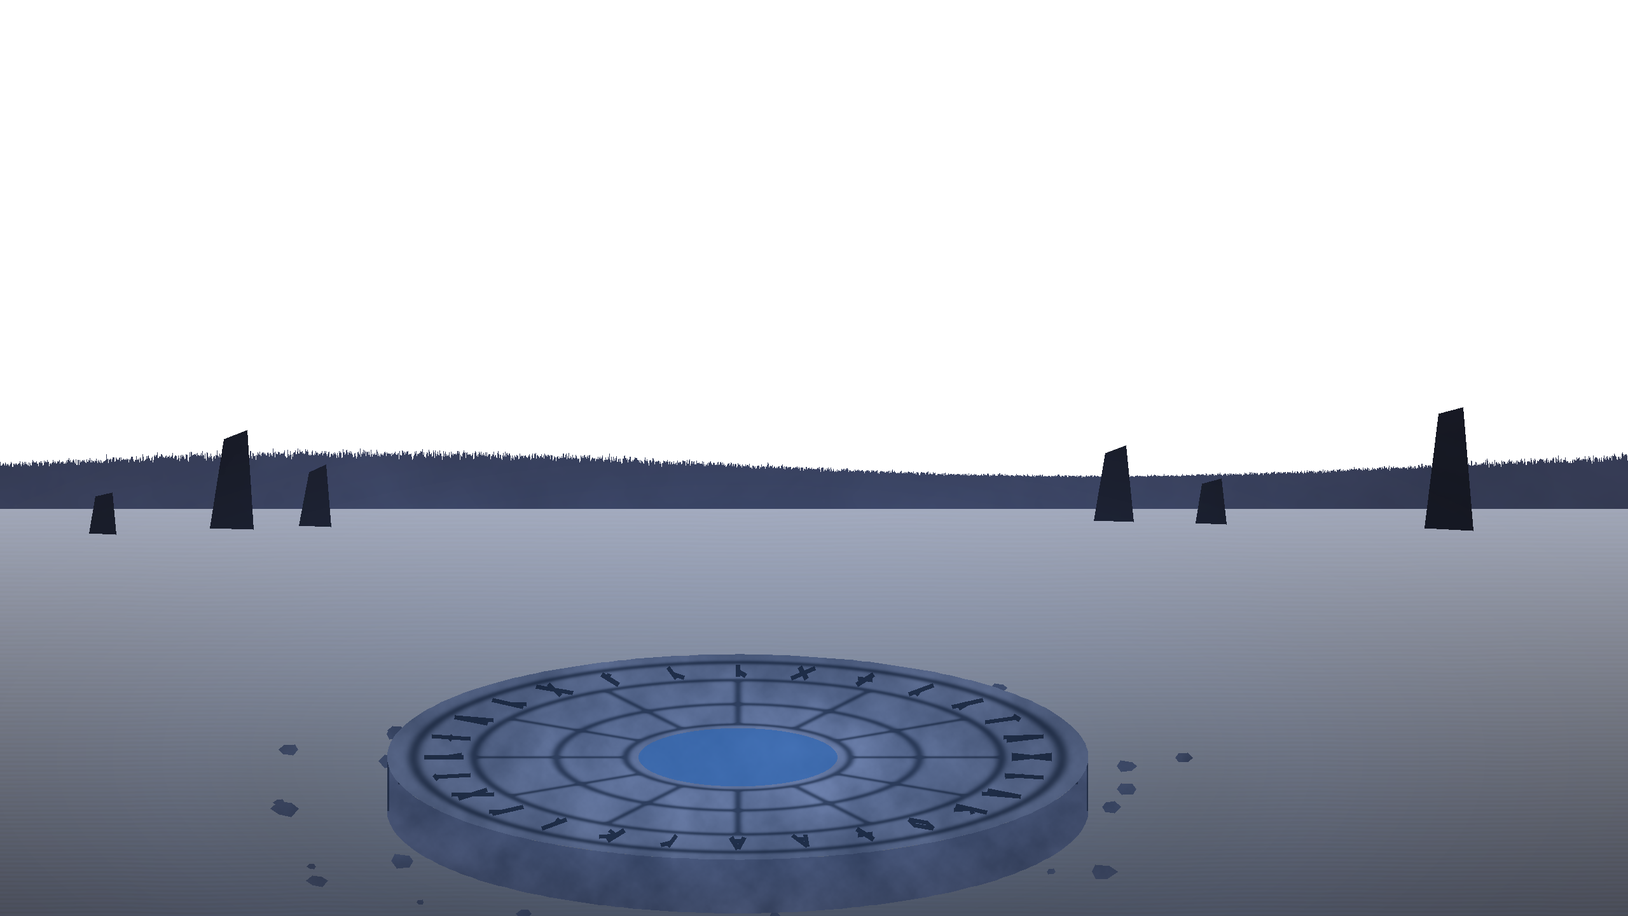
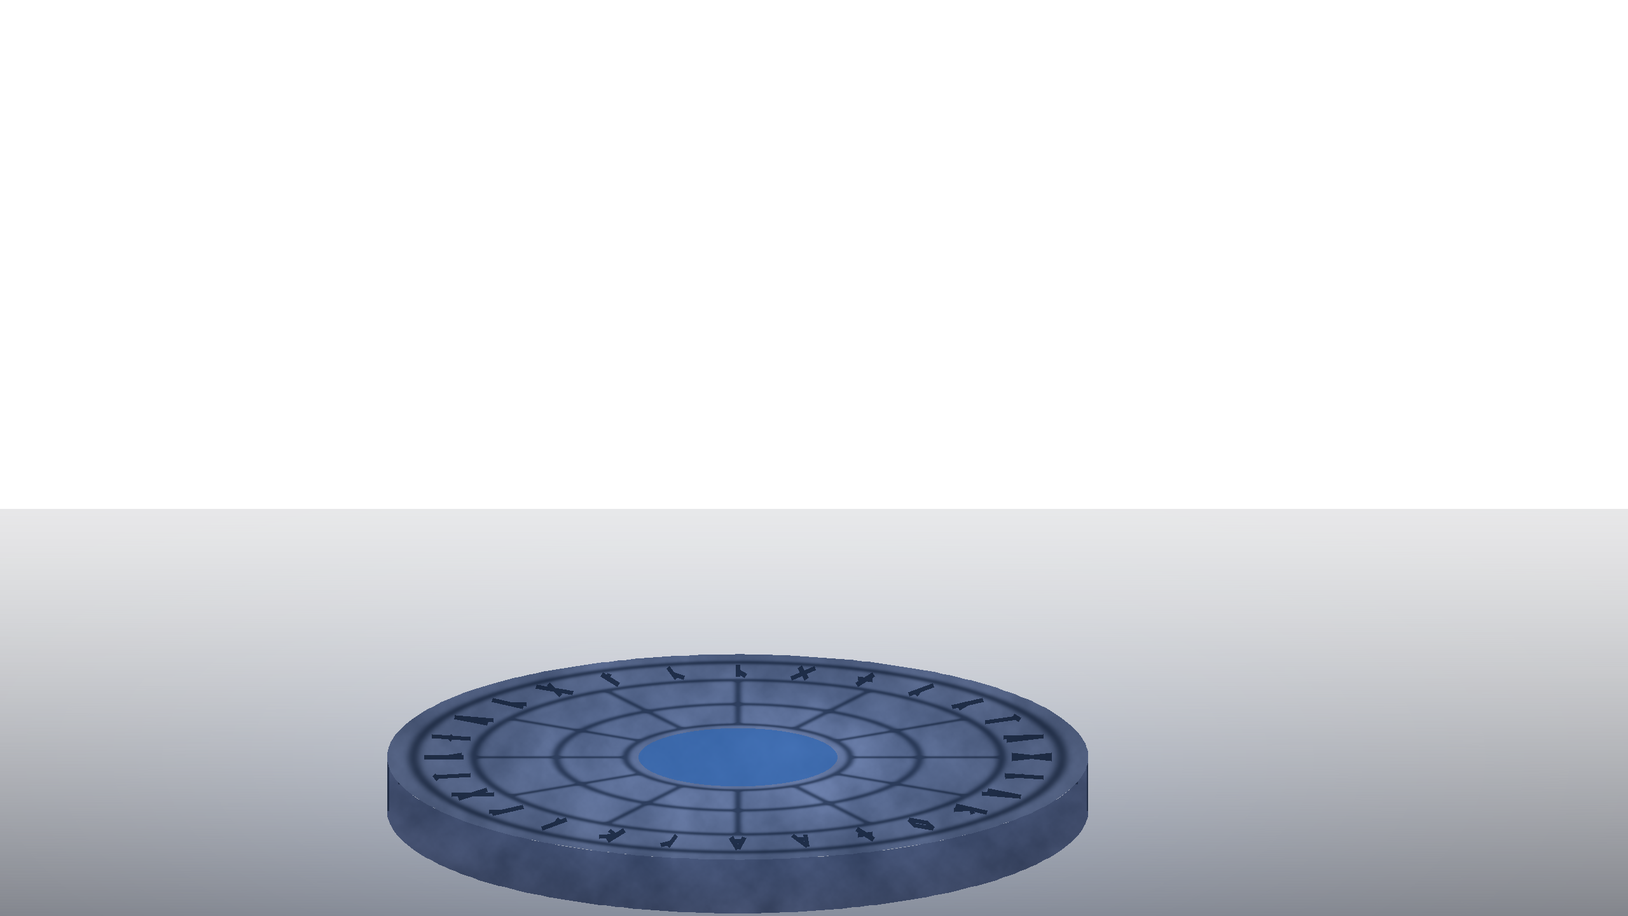
Main menu: mountains across a lake under northern lights; the lake mirrors them in wavering rows; no standing stones or moon glow on the water; the orb's aura rises and falls with it
Claude-Session: https://claude.ai/code/session_01XygewZTgx3ZFWTg4ffda8j

diff --git a/src/Hud.cpp b/src/Hud.cpp
@@ -1719,6 +1719,9 @@ float4 main(float4 pos : SV_POSITION, float4 col : COLOR0, float2 uv : TEXCOORD0
 		ID3D11ShaderResourceView* g_sGlow = nullptr;
 		ID3D11ShaderResourceView* g_sCrystal = nullptr;
 		ID3D11ShaderResourceView* g_sSoft = nullptr;
+		ID3D11ShaderResourceView* g_sMtn = nullptr;      // the shrine scene's mountains across the lake (tools/menulake.py)
+		ID3D11ShaderResourceView* g_sRefl = nullptr;     // the mountains upside down in the lake
+		ID3D11ShaderResourceView* g_sAurora = nullptr;   // the northern lights
 		std::array<ID3D11ShaderResourceView*, 9> g_sShard{};
 		ID3D11ShaderResourceView* g_mGroundFog = nullptr;
 		ID3D11ShaderResourceView* g_mClouds2 = nullptr;    // drifting night clouds that tile left-right (tools/menuscene.py drift_clouds)  // fog wisps that tile left-right (tools/menuscene.py ground_fog)
@@ -1902,19 +1905,46 @@ float4 main(float4 pos : SV_POSITION, float4 col : COLOR0, float2 uv : TEXCOORD0
 					}
 				}
 			}
-			if (g_mAurora) {
+			const bool lakeScene = g_sGround && g_sMtn && g_sRefl;
+			// the northern lights over the lake: the curtains drawn in narrow columns, each lifted and brightened on its
+			// own slow wave, so the folds ripple along them and the light breathes
+			auto auroraStrips = [&](bool mirrored, float alpha) {
+				if (!g_sAurora) {
+					return;
+				}
+				const auto  tx = ImTextureID(reinterpret_cast<std::uintptr_t>(g_sAurora));
+				constexpr int kN = 96;
+				for (int i = 0; i < kN; ++i) {
+					const float x0 = 2560.0f * i / kN, x1 = 2560.0f * (i + 1) / kN, xm = (x0 + x1) * 0.5f;
+					const float lift = 26.0f * std::sin(now * 0.31f + xm * 0.0042f) + 12.0f * std::sin(now * 0.73f - xm * 0.011f);
+					const float glow = 0.62f + 0.38f * std::sin(now * 0.45f + xm * 0.0027f) * std::sin(now * 0.19f - xm * 0.0013f + 1.0f);
+					const int   al = static_cast<int>(std::clamp(alpha * glow, 0.0f, 1.0f) * 255 * fade);
+					const float sway = std::sin(now * 0.12f) * 0.004f;
+					if (!mirrored) {
+						const ImVec2 a = toScreen(0.2f, x0, 0 - lift), b = toScreen(0.2f, x1, 1440 - lift);
+						fg->AddImage(tx, a, b, { x0 / 2560 + sway, 0 }, { x1 / 2560 + sway, 1 }, IM_COL32(255, 255, 255, al));
+					} else {  // the lake's copy: sky rows 160..800 mirrored into 800..1440
+						const ImVec2 a = toScreen(0.4f, x0, 800 + lift * 0.6f), b = toScreen(0.4f, x1, 1440 + lift * 0.6f);
+						fg->AddImage(tx, a, b, { x0 / 2560 + sway, 800.0f / 1440 }, { x1 / 2560 + sway, 160.0f / 1440 }, IM_COL32(200, 225, 255, al));
+					}
+				}
+			};
+			if (lakeScene) {
+				auroraStrips(false, 0.95f);
+			} else if (g_mAurora) {
 				for (int band = 0; band < 2; ++band) {
 					const float w8 = 0.5f + 0.5f * std::sin(now * (0.21f + 0.07f * band) + band * 2.1f);
 					layer(g_mAurora, 0.2f, IM_COL32(150, 255, 210, static_cast<int>((14 + 30 * w8) * fade)), { std::sin(now * (0.05f + 0.02f * band) + band) * 0.006f, 0 });
 				}
 			}
-			layer(g_mClouds, 0.25f, IM_COL32(255, 255, 255, static_cast<int>(200 * fade)), { std::fmod(now * 0.0035f, 1.0f), 0 });
+			const float cloudK = lakeScene ? 0.45f : 1.0f;  // (thin over the lake: the aurora shows through)
+			layer(g_mClouds, 0.25f, IM_COL32(255, 255, 255, static_cast<int>(200 * fade * cloudK)), { std::fmod(now * 0.0035f, 1.0f), 0 });
 			// clouds drifting across the night: two banks at their own speeds (the near one faster), passing over the moon
 			if (g_mClouds2) {
 				const auto tex = ImTextureID(reinterpret_cast<std::uintptr_t>(g_mClouds2));
 				const float u0 = std::fmod(now * 0.0045f, 1.0f), u1 = std::fmod(now * 0.0075f + 0.4f, 1.0f);
-				fg->AddImage(tex, { 0, 0 }, { size.x, size.y * 0.40f }, { u0, 0 }, { u0 + 1.0f, 1 }, IM_COL32(255, 255, 255, static_cast<int>(150 * fade)));
-				fg->AddImage(tex, { 0, size.y * 0.06f }, { size.x, size.y * 0.46f }, { u1, 0.15f }, { u1 + 0.7f, 1 }, IM_COL32(220, 220, 235, static_cast<int>(120 * fade)));
+				fg->AddImage(tex, { 0, 0 }, { size.x, size.y * 0.40f }, { u0, 0 }, { u0 + 1.0f, 1 }, IM_COL32(255, 255, 255, static_cast<int>(150 * fade * cloudK)));
+				fg->AddImage(tex, { 0, size.y * 0.06f }, { size.x, size.y * 0.46f }, { u1, 0.15f }, { u1 + 0.7f, 1 }, IM_COL32(220, 220, 235, static_cast<int>(120 * fade * cloudK)));
 			}
 			// lightning: now and then a forked bolt strikes the far range (drawn behind it, so the peaks cut it off), the
 			// clouds flaring with it; it flickers a few times and is gone
@@ -1989,36 +2019,64 @@ float4 main(float4 pos : SV_POSITION, float4 col : COLOR0, float2 uv : TEXCOORD0
 				};
 				const float pulse = 0.5f + 0.5f * std::sin(now * 1.6f);            // the core's heartbeat
 				const float slow = 0.5f + 0.5f * std::sin(now * 0.55f + 1.0f);
-				// the lake: the night sky upside down in still water (under the painting's see-through water), its stars
-				// trembling as faint ripples roll toward us
+				// the far range across the lake, then the lake: deep water darkening toward us; the stars and the aurora
+				// upside down in it, the mountains' reflection over them - all of it in thin rows, each row nudged
+				// sideways on its own wave (bigger and slower toward us), so the reflection wavers like real water; bright
+				// ripple lines run out toward the far shore
 				{
-					const ImVec2 h0 = toScreen(kD, 0, 800), h1 = toScreen(kD, 2560, 1440);
-					if (g_mSky) {
-						fg->AddImage(ImTextureID(reinterpret_cast<std::uintptr_t>(g_mSky)), h0, h1, { 0, 800.0f / 1440 }, { 1, 160.0f / 1440 }, IM_COL32(150, 170, 220, static_cast<int>(150 * fade)));
+					constexpr float kL = 0.4f;  // (the mountains and their reflection share one depth, so they meet at the shore)
+					if (g_sMtn) {
+						layer(g_sMtn, kL, white);
 					}
-					const ImVec2 m = toScreen(kD, 0.255f * 2560, 1600 - 0.315f * 1440);  // the Blood Moon's light on the water
-					fg->AddCircleFilled(m, 46 * k, IM_COL32(255, 120, 90, static_cast<int>(18 * fade)), 40);
+					const ImVec2 h0 = toScreen(kL, -60, 800), h1 = toScreen(kL, 2620, 1460);
+					fg->AddRectFilledMultiColor(h0, h1, IM_COL32(20, 27, 52, static_cast<int>(255 * fade)), IM_COL32(20, 27, 52, static_cast<int>(255 * fade)),
+						IM_COL32(6, 9, 20, static_cast<int>(255 * fade)), IM_COL32(6, 9, 20, static_cast<int>(255 * fade)));
 					for (const auto& st : stars) {
 						const float py = 1600 - st.y * 1440;
-						if (py < 810 || py > 1430) {
+						if (py < 806 || py > 1430) {
 							continue;
 						}
-						const float wob = std::sin(now * 1.7f + py * 0.06f) * 3.0f + std::sin(now * 0.9f + st.ph) * 1.5f;
-						const ImVec2 p = toScreen(kD, st.x * 2560 + wob, py);
+						const float tt = (py - 800) / 640;
+						const float wob = std::sin(now * 1.3f + py * 0.08f) * (2 + 10 * tt);
+						const ImVec2 p = toScreen(kL, st.x * 2560 + wob, py);
 						const float  tw = std::pow(0.5f + 0.5f * std::sin(now * st.sp + st.ph), 3.0f);
-						const int    al = static_cast<int>((40 + 110 * tw) * fade);
-						fg->AddLine({ p.x, p.y - 4 * k }, { p.x, p.y + (5 + 6 * st.sz) * k }, IM_COL32(200, 215, 255, al / 2), (1.0f + st.sz) * k);
-						fg->AddCircleFilled(p, (0.8f + 0.9f * st.sz * tw) * k, IM_COL32(225, 235, 255, al), 8);
+						const int    al = static_cast<int>((30 + 90 * tw) * (1 - 0.6f * tt) * fade);
+						fg->AddLine({ p.x, p.y - 2 * k }, { p.x, p.y + (3 + 5 * st.sz) * k }, IM_COL32(200, 215, 255, al / 2), (1.0f + st.sz) * k);
+						fg->AddCircleFilled(p, (0.7f + 0.8f * st.sz * tw) * k, IM_COL32(225, 235, 255, al), 8);
 					}
-					for (int i = 0; i < 14; ++i) {  // ripples: thin bright lines drifting down the water
-						const float ph = std::fmod(now * 0.045f + i / 14.0f, 1.0f);
-						const float py = 815 + ph * ph * 620;
-						const ImVec2 a = toScreen(kD, 0, py), b = toScreen(kD, 2560, py);
-						const int al = static_cast<int>(22 * std::sin(ph * 3.1416f) * fade);
-						fg->AddLine(a, b, IM_COL32(170, 190, 240, al), (1.0f + ph * 1.5f) * k);
+					auroraStrips(true, 0.42f);
+					if (g_sRefl) {
+						const auto rt = ImTextureID(reinterpret_cast<std::uintptr_t>(g_sRefl));
+						constexpr int kRows = 128;
+						for (int r = 0; r < kRows; ++r) {
+							const float y0 = 800 + 640.0f * r / kRows, y1 = 800 + 640.0f * (r + 1) / kRows;
+							const float tt = (r + 0.5f) / kRows;
+							const float off = std::sin(now * (1.6f - 0.8f * tt) + y0 * (0.19f - 0.12f * tt)) * (1.5f + 16.0f * tt * tt) + std::sin(now * 0.7f + y0 * 0.031f) * 3.0f * tt;
+							const float du = off / 2560.0f;
+							fg->AddImage(rt, toScreen(kL, 0, y0), toScreen(kL, 2560, y1 + 0.6f), { du, r / static_cast<float>(kRows) }, { 1 + du, (r + 1) / static_cast<float>(kRows) },
+								IM_COL32(255, 255, 255, static_cast<int>(255 * fade)));
+						}
+					}
+					for (int i = 0; i < 22; ++i) {  // ripples running out toward the far shore, finer as they go
+						const float ph = std::fmod(now * 0.03f + i / 22.0f, 1.0f);
+						const float d = 1.0f - ph;  // 1 near us, 0 at the shore
+						const float py = 803 + d * d * 630;
+						const float x0 = 2560 * std::fmod(i * 0.618f, 1.0f) - 900, len = 600 + 1400 * d;
+						const ImVec2 a = toScreen(kL, x0, py), b = toScreen(kL, x0 + len, py);
+						const int al = static_cast<int>(26 * std::sin(ph * 3.1416f) * fade);
+						fg->AddLine(a, b, IM_COL32(150, 180, 235, al), (0.7f + d * 1.6f) * k);
+					}
+					// the shrine's own light on the water under it: a wavering column of blue
+					if (g_sSoft) {
+						const ImVec2 q = at(0, 0, -60.0f);
+						for (int j = 0; j < 10; ++j) {
+							const float yy = q.y + j * 22.0f * u * kS * 0.35f;
+							const float wv = std::sin(now * 2.1f + j * 0.9f) * 10.0f * u;
+							sprite(g_sSoft, { q.x + wv, yy }, (260 - 14 * j) * u, 26 * u, 0, IM_COL32(90, 170, 255, static_cast<int>((34 - 3 * j + 10 * pulse) * fade)));
+						}
 					}
 				}
-				groundFog(size.y * 0.30f, size.y * 0.56f, 0.006f, 1.6f, 120, IM_COL32(120, 135, 180, 0));  // mist on the far water
+				groundFog(size.y * 0.47f, size.y * 0.62f, 0.006f, 1.6f, 70, IM_COL32(120, 135, 180, 0));  // mist on the far water, at the mountains' feet
 				layer(g_sGround, kD, white);
 				if (g_sGlow) {  // the runes and the pool breathe with the core
 					layer(g_sGlow, kD, IM_COL32(255, 255, 255, static_cast<int>((150 + 105 * pulse) * fade)));
@@ -2071,7 +2129,8 @@ float4 main(float4 pos : SV_POSITION, float4 col : COLOR0, float2 uv : TEXCOORD0
 				}
 				// the crystal: turning (its frames), swelling with the heartbeat, its light round it
 				{
-					const ImVec2 c = at(0, 0, kCrystalZ);
+					const float  bob = std::sin(now * 0.9f) * 6 * u;  // the orb rises and falls; its light and aura go with it
+					const ImVec2 c = [&] { auto p = at(0, 0, kCrystalZ); p.y += bob; return p; }();
 					if (g_sSoft) {
 						const float g1 = (420 + 90 * pulse) * u, g2 = (200 + 50 * pulse) * u;
 						sprite(g_sSoft, c, g1 * 2, g1 * 2, 0, IM_COL32(80, 150, 255, static_cast<int>((70 + 50 * pulse) * fade)));
@@ -2094,7 +2153,7 @@ float4 main(float4 pos : SV_POSITION, float4 col : COLOR0, float2 uv : TEXCOORD0
 						const ImVec2 uv0{ (f % 6) / 6.0f, (f / 6) / 4.0f }, uv1{ uv0.x + 1.0f / 6.0f, uv0.y + 0.25f };
 						const float sc = 1.0f + 0.035f * pulse;
 						const float w = 448 * u * sc, h = 640 * u * sc;
-						const ImVec2 mid{ c.x, c.y + (0.5f - 0.56f) * h + std::sin(now * 0.9f) * 6 * u };  // (the frame's origin sits at 56% of its height)
+						const ImVec2 mid{ c.x, c.y + (0.5f - 0.56f) * h };  // (the frame's origin sits at 56% of its height)
 						sprite(g_sCrystal, mid, w, h, 0, IM_COL32(255, 255, 255, static_cast<int>(255 * fade)), uv0, uv1);
 					}
 					aura(1.1f, 0.8f, IM_COL32(200, 235, 255, static_cast<int>((60 + 40 * pulse) * fade)));  // (a thin tongue over its face)
@@ -2876,7 +2935,7 @@ float4 main(float4 pos : SV_POSITION, float4 col : COLOR0, float2 uv : TEXCOORD0
 				DirectX::CreateWICTextureFromFile(g_device, (std::wstring(L"Data\\Interface\\UndyingNights\\") + file).c_str(), nullptr, tex);
 			}
 			DirectX::CreateWICTextureFromFile(g_device, L"Data\\Interface\\UndyingNights\\menu_title.png", nullptr, &g_mTitle);
-			for (auto [file, tex] : { std::pair{ L"menu_shrine_ground.png", &g_sGround }, { L"menu_shrine_glow.png", &g_sGlow }, { L"menu_crystal.png", &g_sCrystal }, { L"menu_softglow.png", &g_sSoft } }) {
+			for (auto [file, tex] : { std::pair{ L"menu_shrine_ground.png", &g_sGround }, { L"menu_shrine_glow.png", &g_sGlow }, { L"menu_crystal.png", &g_sCrystal }, { L"menu_softglow.png", &g_sSoft }, { L"menu_mountains.png", &g_sMtn }, { L"menu_lake_refl.png", &g_sRefl }, { L"menu_aurora2.png", &g_sAurora } }) {
 				DirectX::CreateWICTextureFromFile(g_device, (std::wstring(L"Data\\Interface\\UndyingNights\\") + file).c_str(), nullptr, tex);
 			}
 			for (int i = 0; i < 9; ++i) {

diff --git a/tools/menulake.py b/tools/menulake.py
@@ -1,0 +1,163 @@
+#!/usr/bin/env python3
+"""The main menu's shrine scene, behind the shrine: a range of snowy mountains far across a still lake, northern
+lights over them. The game moves it (src/Hud.cpp DrawMenu): the aurora's curtains sway and breathe, the lake shows
+the mountains and the aurora upside down, its reflection wavering strip by strip as ripples run out toward the range.
+
+    python3 tools/menulake.py assets/ui
+
+Writes (2560x1440 painting space, the horizon - the far shore - at y 800):
+  menu_mountains.png   the ranges (alpha: clear above the peaks)
+  menu_lake_refl.png   the ranges upside down in the lake under the horizon (2560x640, alpha)
+  menu_aurora2.png     the northern lights: two curtains (alpha), drawn twice out of step by the game
+"""
+import math, pathlib, sys
+import numpy as np
+from PIL import Image, ImageFilter
+
+OUT = pathlib.Path(sys.argv[1] if len(sys.argv) > 1 else 'menulake')
+OUT.mkdir(parents=True, exist_ok=True)
+W, H = 2560, 1440
+HORIZON = 800
+
+
+def fbm1(n, oct=7, base=3, seed=0, pers=0.5):
+    rng = np.random.default_rng(seed)
+    out, amp, tot = np.zeros(n, np.float32), 1.0, 0.0
+    x = np.linspace(0, 1, n, dtype=np.float32)
+    for o in range(oct):
+        k = base * 2 ** o
+        g = rng.random(k + 2).astype(np.float32)
+        out += np.interp(x * k, np.arange(k + 2), g) * amp
+        tot += amp
+        amp *= pers
+    return out / tot
+
+
+def fbm2(w, h, oct=6, base=4, seed=0, pers=0.55):
+    rng = np.random.default_rng(seed)
+    out = np.zeros((h, w), np.float32)
+    amp, tot = 1.0, 0.0
+    for o in range(oct):
+        n = base * 2 ** o
+        g = rng.random((n + 1, int(n * w / h) + 2)).astype(np.float32)
+        out += np.asarray(Image.fromarray((g * 255).astype(np.uint8)).resize((w, h), Image.BICUBIC), np.float32) / 255 * amp
+        tot += amp
+        amp *= pers
+    return out / tot
+
+
+def blur(m, r):
+    return np.asarray(Image.fromarray((np.clip(m, 0, 1) * 255).astype(np.uint8)).filter(ImageFilter.GaussianBlur(r)), np.float32) / 255
+
+
+def rgba(rgb, a):
+    return Image.fromarray(np.dstack([np.clip(rgb, 0, 255), np.clip(a, 0, 1) * 255]).astype(np.uint8), 'RGBA')
+
+
+def ridge(seed, top, amp, sharp):
+    """A mountain profile: y of the crest per column (sharp peaks: ridged noise)."""
+    n = fbm1(W, 8, 3, seed)
+    r = 1 - np.abs(2 * fbm1(W, 7, 2, seed + 50) - 1)  # ridged: peaks where the noise crosses its middle
+    prof = 0.55 * n + 0.45 * r ** sharp
+    prof = (prof - prof.min()) / (prof.max() - prof.min())
+    return top + amp * (1 - prof)
+
+
+def mountains():
+    yy, xx = np.mgrid[0:H, 0:W].astype(np.float32)
+    rgb = np.zeros((H, W, 3), np.float32)
+    a = np.zeros((H, W), np.float32)
+    rock = fbm2(W, H, 7, 6, seed=31)
+    streak = fbm2(W, H, 5, 3, seed=32)
+    # far to near: (seed, crest top, crest range, sharpness, rock colour, snow colour, haze)
+    ranges = [(11, 360, 320, 3.0, (40, 49, 76), (200, 214, 238), 0.42, 0.30),
+              (12, 520, 220, 2.4, (24, 29, 46), (150, 166, 200), 0.22, 0.20),
+              (13, 660, 120, 1.6, (11, 14, 24), (80, 92, 120), 0.08, 0.10)]
+    for seed, top, amp, sharp, rc, sc, haze, snowshare in ranges:
+        crest = ridge(seed, top, amp, sharp)
+        inside = yy >= crest[None, :]
+        depth = np.clip((yy - crest[None, :]) / (HORIZON - crest[None, :] + 1), 0, 1)   # 0 at the crest, 1 at the shore
+        # facets: a rocky heightfield whose slope toward the moon (up-left) lights a face
+        T = blur(fbm2(W, H, 6, 5, seed=seed + 100), 3.0)
+        gx = np.gradient(T, axis=1) * 220 + np.gradient(crest)[None, :] * -0.12
+        lit = np.clip(0.5 + 0.5 * np.tanh(-gx * 2.0), 0, 1)
+        lit = 0.25 + 0.75 * lit
+        snowline = snowshare * (0.6 + 0.8 * fbm1(W, 6, 5, seed + 7))[None, :]
+        snow = np.clip((snowline - depth) * 14 + (T - 0.5) * 2.0, 0, 1) * np.clip(lit * 1.4 - 0.2, 0, 1)
+        base = np.array(rc, np.float32)[None, None] * (0.75 + 0.5 * rock[..., None]) * (0.55 + 0.9 * lit[..., None])
+        snc = np.array(sc, np.float32)[None, None] * (0.45 + 0.7 * lit[..., None])
+        col = base * (1 - snow[..., None]) + snc * snow[..., None]
+        mist = np.clip((yy - (HORIZON - 90)) / 90.0, 0, 1) ** 1.5
+        hz = np.array([52, 62, 94], np.float32)[None, None]
+        col = col * (1 - haze) + hz * haze
+        col = col * (1 - 0.6 * mist[..., None]) + hz * 0.6 * mist[..., None]
+        m = inside.astype(np.float32)
+        m = np.where(yy > HORIZON + 4, 0, m)
+        edge = np.clip((yy - crest[None, :]) / 1.5, 0, 1)
+        m = m * edge
+        rgb = rgb * (1 - m[..., None]) + col * m[..., None]
+        a = np.maximum(a, m)
+    # the far shore: a thin dark line of trees and stones at the water
+    shore = HORIZON - 6 - 10 * fbm1(W, 6, 40, 77)
+    tm = ((yy >= shore[None, :]) & (yy <= HORIZON + 2)).astype(np.float32)
+    rgb = rgb * (1 - tm[..., None]) + np.array([14, 17, 28])[None, None] * tm[..., None]
+    a = np.maximum(a, tm)
+    img = rgba(rgb, a)
+    img.save(OUT / 'menu_mountains.png', optimize=True)
+    return img
+
+
+def reflection(mtn):
+    """The ranges mirrored in the lake, under the horizon: darker and bluer, the nearer the darker (alpha: clear where
+    the lake mirrors open sky - the game draws the sky's own reflection, stars and aurora, under it)."""
+    m = np.asarray(mtn, np.float32)
+    top = m[HORIZON - 640:HORIZON][::-1].copy()                 # mirror at the shore
+    t = np.linspace(0, 1, 640, dtype=np.float32)[:, None, None]
+    water = np.array([8, 12, 24], np.float32)[None, None]
+    rgb = top[..., :3] * (0.72 - 0.30 * t) + water * (0.28 + 0.30 * t)
+    rgb *= np.array([0.86, 0.94, 1.12])[None, None]
+    im = rgba(rgb, top[..., 3] / 255).filter(ImageFilter.GaussianBlur(1.6))
+    im.save(OUT / 'menu_lake_refl.png', optimize=True)
+
+
+def aurora():
+    """Curtains of light: a bright green hem low down, rays rising from it into teal and violet, fading out."""
+    yy, xx = np.mgrid[0:H, 0:W].astype(np.float32)
+    total = np.zeros((H, W, 3), np.float32)
+    alpha = np.zeros((H, W), np.float32)
+    wsum = np.zeros((H, W), np.float32)
+    rays = fbm2(W, H, 4, 2, seed=61)
+    fine = np.asarray(Image.fromarray((np.random.default_rng(62).random((8, W)) * 255).astype(np.uint8)).resize((W, H), Image.BICUBIC), np.float32) / 255
+    for k, (y0, amp, wl, ph, height, tilt) in enumerate([(450, 70, 900, 0.3, 380, -0.05), (310, 55, 1300, 2.1, 300, 0.04)]):
+        hem = y0 + amp * np.sin(xx[0] / wl * 2 * math.pi + ph) + 40 * np.sin(xx[0] / 260 + ph * 3) + tilt * (xx[0] - W / 2)
+        d = (hem[None, :] - yy) / height                              # 0 at the hem, 1 at the top of the rays
+        dc = np.clip(d, -5, 5)
+        up = np.where(dc >= 0, np.exp(-dc * 1.5) * (0.7 + 0.3 * np.exp(-dc * 18)), np.exp(dc * 11))         # rays above the hem, a sharp fade under it
+        streaks = 0.45 + 0.55 * (0.6 * fine + 0.4 * rays)
+        patch = fbm2(W, H, 3, 2, seed=70 + k)
+        brightness = up * streaks * np.clip((patch - 0.25) * 2.4, 0.2, 1.0)
+        green = np.array([70, 255, 160], np.float32)
+        teal = np.array([60, 200, 255], np.float32)
+        violet = np.array([170, 90, 255], np.float32)
+        dd = np.clip(d, 0, 1)[..., None]
+        col = green * (1 - dd) ** 2 + teal * 2 * dd * (1 - dd) + violet * dd ** 2
+        total += col * brightness[..., None]
+        wsum = wsum + brightness
+        alpha = 1 - (1 - alpha) * (1 - brightness)
+    alpha = blur(alpha, 2)
+    rgb = np.clip(total / np.maximum(wsum[..., None], 1e-3), 0, 255)
+    rgba(rgb, np.clip(alpha * 0.95, 0, 1)).save(OUT / 'menu_aurora2.png', optimize=True)
+
+
+if __name__ == '__main__':
+    m = mountains()
+    reflection(m)
+    aurora()
+    sky = Image.open(OUT / 'menu_sky.jpg').convert('RGBA').resize((W, H))
+    sky.alpha_composite(Image.open(OUT / 'menu_aurora2.png'))
+    sky.alpha_composite(m)
+    lake = Image.new('RGBA', (W, 640), (12, 17, 34, 255))
+    lake.alpha_composite(Image.open(OUT / 'menu_lake_refl.png'))
+    sky.paste(lake, (0, HORIZON))
+    sky.convert('RGB').resize((1280, 720)).save(OUT / 'lake_preview.jpg', quality=88)
+    print('menulake: wrote menu_mountains.png, menu_lake_refl.png, menu_aurora2.png')

diff --git a/tools/menushrine.py b/tools/menushrine.py
@@ -6,7 +6,7 @@ DrawMenu): the crystal turns (a sheet of frames) and pulses, the rocks float rou
     python3 tools/menushrine.py assets/ui
 
 Writes (2560x1440 painting space; the C++ draws the moving parts with the numbers printed at the end):
-  menu_shrine_ground.png   the plain, the standing stones, the rune floor (static)
+  menu_shrine_ground.png   the lake's tint and the rune floor floating on it (static)
   menu_shrine_glow.png     the floor's light alone (runes, rings, pool) - drawn over it, breathing
   menu_crystal.png         the crystal turning, 24 frames (6 x 4 sheet of 320x480)
   menu_shard0..8.png       the floating rocks
@@ -71,28 +71,14 @@ def ground():
     far = np.array([52, 58, 82], np.float32)
     col = far[None, None] * (1 - t[..., None]) ** 2.2 + base[None, None] * (1 - (1 - t[..., None]) ** 2.2)
     col *= (0.75 + 0.45 * n[..., None]) * (0.9 + 0.2 * n2[..., None])
-    # a soft ridge line on the horizon (far hills), barely there
-    ridge = HORIZON - 40 - 60 * fbm(W, 1, 5, 3, seed=5)[0] * (1 + 0.6 * np.sin(np.linspace(0, 7, W)))
-    a = (yy >= ridge[None, :]).astype(np.float32)
-    hills = (yy < HORIZON + 10) & (yy >= ridge[None, :])
-    col[hills] = col[hills] * 0.55 + np.array([60, 66, 92]) * 0.45
-    # the plain is a still lake: dark water, faint ripple lines, see-through (the game draws the night sky's
-    # reflection under it, src/Hud.cpp DrawMenu)
+    # nothing above the far shore (the mountains are their own layer, tools/menulake.py); below it the lake: a dark
+    # see-through tint over the reflection the game draws (src/Hud.cpp DrawMenu), deeper toward us, with a faint sheen
+    a = np.zeros((H, W), np.float32)
     lake = yy >= HORIZON
-    rip = 0.5 + 0.5 * np.sin(yy * 0.9 + 6 * fbm(W, H, 3, 6, seed=21))
-    wcol = np.array([10, 14, 28], np.float32)[None, None] * (0.85 + 0.3 * rip[..., None]) + np.array([20, 30, 55]) * (1 - t[..., None]) ** 3
+    rip = 0.5 + 0.5 * np.sin(yy * (0.25 + 0.9 * t) + 5 * fbm(W, H, 3, 6, seed=21))
+    wcol = np.array([6, 10, 22], np.float32)[None, None] * (0.9 + 0.2 * rip[..., None])
     col = np.where(lake[..., None], wcol, col)
-    a = np.where(lake, 0.42 + 0.33 * t, a)
-    # standing stones on the plain, broken, in silhouette
-    stones = maskdraw(lambda d: [d.polygon(p, fill=255) for p in [
-        [(330, 830), (352, 690), (388, 676), (398, 832)], [(470, 826), (486, 742), (512, 730), (520, 828)],
-        [(1720, 818), (1738, 712), (1770, 700), (1782, 820)], [(1880, 822), (1890, 760), (1920, 752), (1928, 824)],
-        [(2240, 830), (2262, 650), (2300, 640), (2316, 834)], [(140, 838), (150, 780), (176, 774), (182, 840)]]])
-    col = col * (1 - stones[..., None]) + np.array([24, 26, 36]) * stones[..., None] * (0.8 + 0.4 * n[..., None])
-    a = np.maximum(a, stones)
-    # the floor's shadow on the plain
-    sh = maskdraw(lambda d: d.ellipse([CX - 820, CY - 170, CX + 820, CY + 300], fill=255))
-    col *= (1 - 0.45 * blur(sh, 60))[..., None]
+    a = np.where(lake, 0.10 + 0.40 * t ** 1.3, a)
     img = rgba(col, a)
 
     # ---- the rune floor: a stone drum, its top carved in rings
@@ -166,10 +152,9 @@ def ground():
     arr = np.asarray(img, np.float32)
     rgb, al = arr[..., :3], arr[..., 3] / 255
     rubcol = np.array([50, 52, 64], np.float32)[None, None] * (0.6 + 0.6 * stone[..., None])
-    rgb = rgb * (1 - rub[..., None]) + rubcol * rub[..., None]
     rgb = rgb * (1 - side[..., None]) + sidecol * side[..., None]
     rgb = rgb * (1 - topm[..., None]) + topcol * topm[..., None]
-    al = np.maximum(al, np.maximum(side, np.maximum(topm, rub)))
+    al = np.maximum(al, np.maximum(side, topm))
     # cold light from the crystal on the floor and the plain round it
     cx, cy = proj(0, 0, CRYSTAL_Z)
     lit = np.exp(-(((xx2 - CX) / 900) ** 2 + ((yy2 - CY) / 360) ** 2))
